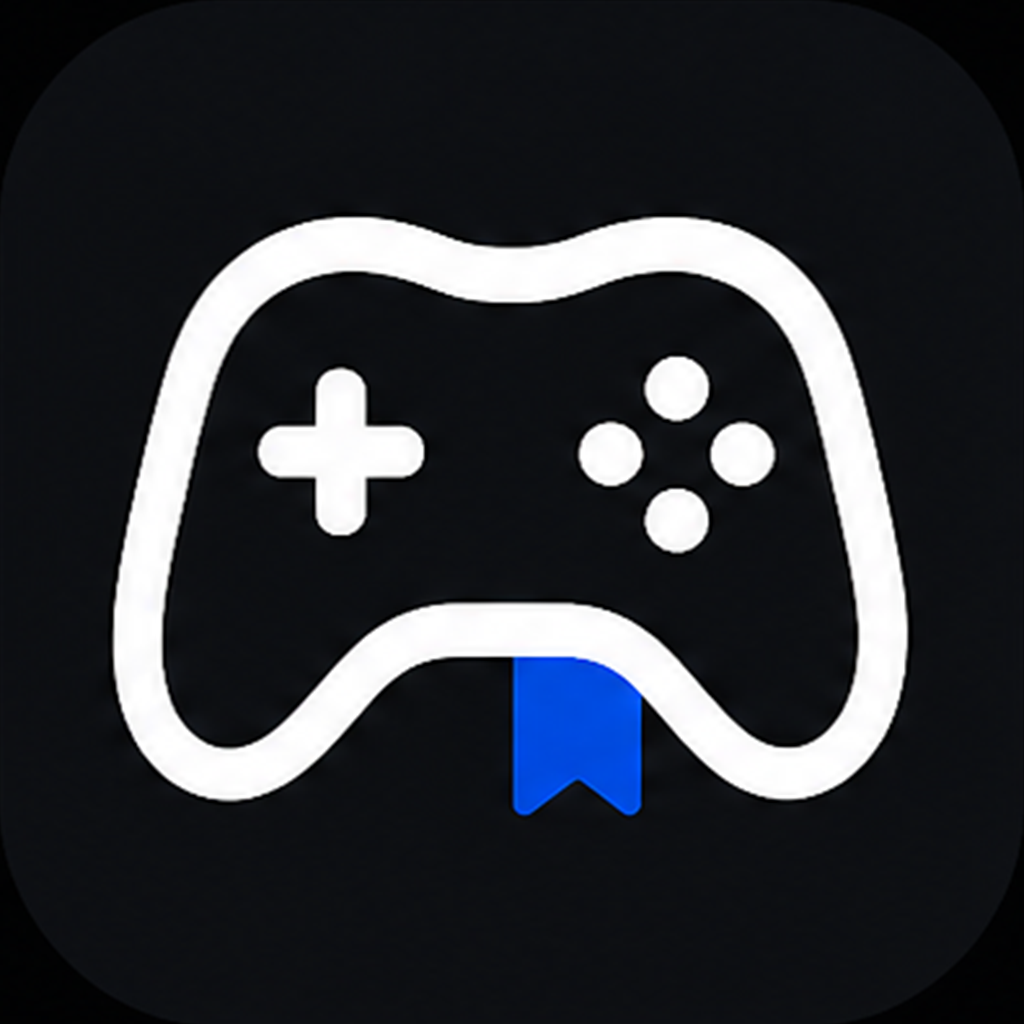
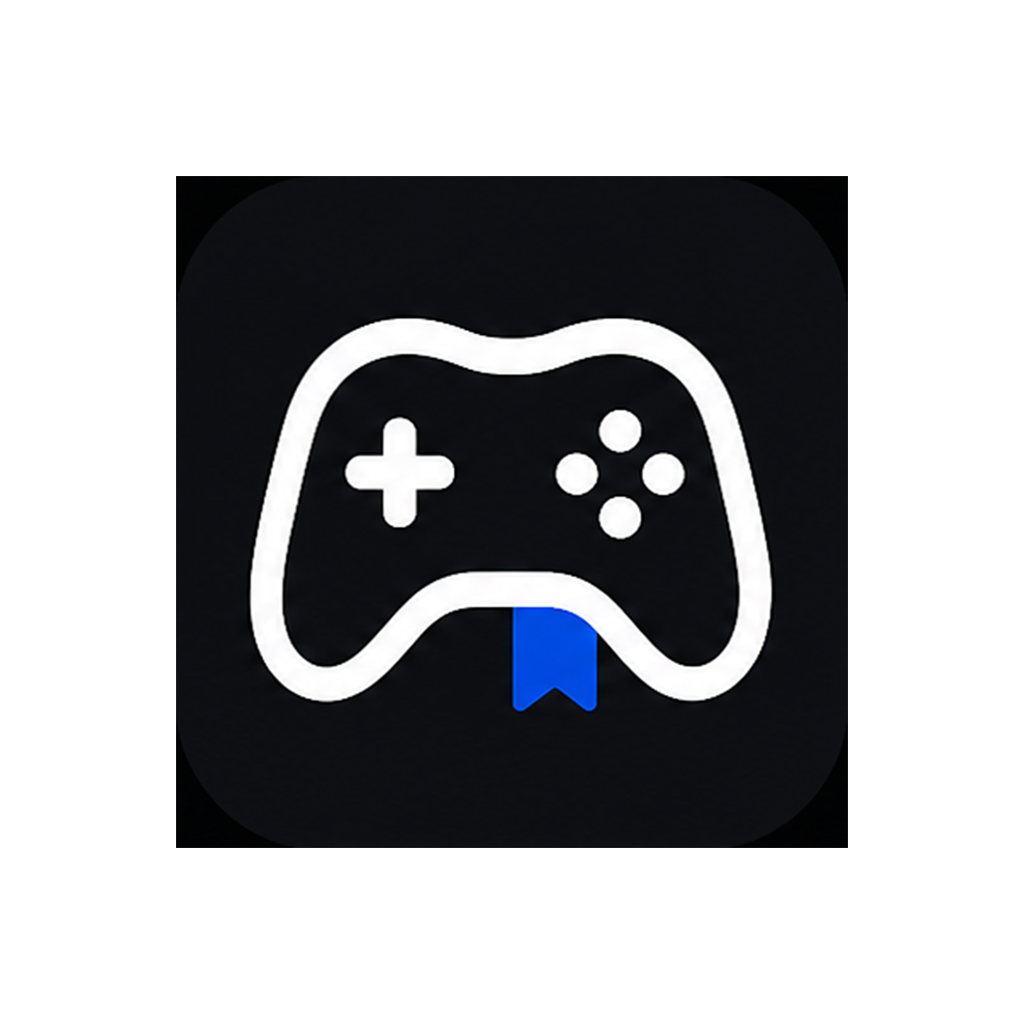
Many fixes

diff --git a/mobile/components/GameListItem.tsx b/mobile/components/GameListItem.tsx
@@ -1,9 +1,11 @@
 import { Pressable, View, StyleSheet } from 'react-native'
 import { Image } from 'expo-image'
 import { router } from 'expo-router'
+import { Ionicons } from '@expo/vector-icons'
 import { Text } from '@/components/ui/Text'
 import { AddToLibraryButton } from '@/components/AddToLibraryButton'
 import { Colors, Spacing, Radius, FontFamily } from '@/constants'
+import { isUpcomingRelease } from '@/lib/releaseDates'
 import type { RawgGame } from '@/types/rawg'
 
 function metacriticColor(score: number): string {
@@ -18,8 +20,8 @@ interface Props {
 
 export function GameListItem({ game }: Props) {
   const year = game.released != null ? game.released.split('-')[0] : null
+  const isUpcoming = isUpcomingRelease(game.released)
   const topGenre = (game.genres ?? [])[0]?.name ?? null
-  const meta = [year, topGenre].filter(Boolean).join(' - ')
 
   return (
     <Pressable
@@ -37,8 +39,23 @@ export function GameListItem({ game }: Props) {
         <Text variant="body" numberOfLines={2} style={styles.title}>
           {game.name}
         </Text>
-        {meta.length > 0 && (
-          <Text variant="caption">{meta}</Text>
+        {(year != null || topGenre != null) && (
+          <View style={styles.metaRow}>
+            {year != null && (
+              <View style={styles.releaseMeta}>
+                <Text variant="caption">{year}</Text>
+                {isUpcoming && (
+                  <Ionicons name="calendar-outline" size={12} color={Colors.success} />
+                )}
+              </View>
+            )}
+            {year != null && topGenre != null && (
+              <Text variant="caption" color={Colors.textMuted}>
+                -
+              </Text>
+            )}
+            {topGenre != null && <Text variant="caption">{topGenre}</Text>}
+          </View>
         )}
         {game.metacritic != null && (
           <View style={[styles.metaBadge, { borderColor: metacriticColor(game.metacritic) }]}>
@@ -78,6 +95,17 @@ const styles = StyleSheet.create({
     fontFamily: FontFamily.medium,
     fontSize: 14,
     lineHeight: 20,
+  },
+  metaRow: {
+    flexDirection: 'row',
+    alignItems: 'center',
+    flexWrap: 'wrap',
+    gap: Spacing.xs,
+  },
+  releaseMeta: {
+    flexDirection: 'row',
+    alignItems: 'center',
+    gap: 3,
   },
   metaBadge: {
     alignSelf: 'flex-start',

diff --git a/mobile/app/(tabs)/library.tsx b/mobile/app/(tabs)/library.tsx
@@ -6,7 +6,6 @@ import {
   PanResponder,
   Platform,
   Pressable,
-  RefreshControl,
   StyleSheet,
   View,
   type GestureResponderEvent,
@@ -18,7 +17,7 @@ import { Swipeable } from 'react-native-gesture-handler'
 import { Image } from 'expo-image'
 import { router, useLocalSearchParams } from 'expo-router'
 import { Ionicons } from '@expo/vector-icons'
-import { SafeAreaView } from 'react-native-safe-area-context'
+import { SafeAreaView, useSafeAreaInsets } from 'react-native-safe-area-context'
 import { Text } from '@/components/ui/Text'
 import { EmptyState } from '@/components/ui/EmptyState'
 import { SkeletonLoader } from '@/components/ui/SkeletonLoader'
@@ -47,7 +46,7 @@ type ViewMode = 'grid' | 'list'
 
 const FILTER_OPTIONS: { key: FilterStatus; label: string; compactLabel: string }[] = [
   { key: 'all', label: 'All', compactLabel: 'All' },
-  { key: 'want_to_play', label: 'Wanted', compactLabel: 'Want' },
+  { key: 'want_to_play', label: 'TBP', compactLabel: 'TBP' },
   { key: 'playing', label: 'Playing', compactLabel: 'Play' },
   { key: 'done', label: 'Done', compactLabel: 'Done' },
   { key: 'did_not_finish', label: 'DNF', compactLabel: 'DNF' },
@@ -526,13 +525,15 @@ function SortPicker({
   onDismiss: () => void
 }) {
   const isWeb = Platform.OS === 'web'
+  const insets = useSafeAreaInsets()
+  const sheetPaddingBottom = isWeb ? Spacing.md : Math.max(insets.bottom + Spacing.xl, Spacing.section)
 
   return (
     <Modal visible={visible} transparent animationType="fade" onRequestClose={onDismiss}>
       <View style={[spStyles.overlay, isWeb ? spStyles.overlayCenter : spStyles.overlayBottom]}>
         <Pressable style={StyleSheet.absoluteFill} onPress={onDismiss} />
         <View
-          style={isWeb ? spStyles.card : spStyles.sheet}
+          style={[isWeb ? spStyles.card : spStyles.sheet, { paddingBottom: sheetPaddingBottom }]}
           onStartShouldSetResponder={(_e) => true}
         >
           {!isWeb && <View style={spStyles.handle} />}
@@ -582,7 +583,6 @@ const spStyles = StyleSheet.create({
     backgroundColor: Colors.surface,
     borderTopLeftRadius: 20,
     borderTopRightRadius: 20,
-    paddingBottom: Spacing.xl,
     borderWidth: 1,
     borderBottomWidth: 0,
     borderColor: Colors.border,
@@ -733,15 +733,15 @@ function LibraryFilters({
 
 export default function LibraryScreen() {
   const { filter: filterParam } = useLocalSearchParams<{ filter?: string }>()
-  const [filter, setFilter] = useState<FilterStatus>('all')
-  const [sort, setSort] = useState<SortKey>('recent')
+  const [filter, setFilter] = useState<FilterStatus>('want_to_play')
+  const [sort, setSort] = useState<SortKey>('custom')
   const [viewMode, setViewMode] = useState<ViewMode>('grid')
   const [sortPickerVisible, setSortPickerVisible] = useState(false)
   const [statusPickerEntry, setStatusPickerEntry] = useState<LibraryEntry | null>(null)
   const [customOrderIds, setCustomOrderIds] = useState<string[]>([])
   const customOrderIdsRef = useRef<string[]>([])
 
-  const { data: entries, isLoading, refetch, isRefetching } = useLibraryEntries()
+  const { data: entries, isLoading } = useLibraryEntries()
   const { mutate: updateEntry } = useUpdateLibraryEntry()
   const { mutate: removeEntry } = useRemoveFromLibrary()
   const { mutate: updateCustomOrder } = useUpdateLibraryCustomOrder()
@@ -938,14 +938,6 @@ export default function LibraryScreen() {
         ]}
         columnWrapperStyle={activeViewMode === 'grid' ? styles.gridRow : undefined}
         ItemSeparatorComponent={activeViewMode === 'grid' ? () => <View style={styles.gridGap} /> : undefined}
-        refreshControl={
-          <RefreshControl
-            refreshing={isRefetching}
-            onRefresh={refetch}
-            tintColor={Colors.primary}
-            colors={[Colors.primary]}
-          />
-        }
         ListEmptyComponent={
           <View style={styles.emptyWrapper}>
             <EmptyState

diff --git a/mobile/lib/releaseDates.ts b/mobile/lib/releaseDates.ts
@@ -1,0 +1,20 @@
+export function isUpcomingRelease(released: string | null): boolean {
+  if (released == null) return true
+
+  const [yearPart, monthPart, dayPart] = released.split('-')
+  const year = Number(yearPart)
+  const month = Number(monthPart)
+  const day = Number(dayPart)
+  if (yearPart == null || monthPart == null || dayPart == null) return false
+  if (isNaN(year) || isNaN(month) || isNaN(day)) return false
+  if (month < 1 || month > 12 || day < 1 || day > 31) return false
+
+  const today = new Date()
+  const todayYear = today.getFullYear().toString().padStart(4, '0')
+  const todayMonth = (today.getMonth() + 1).toString().padStart(2, '0')
+  const todayDay = today.getDate().toString().padStart(2, '0')
+  const todayKey = `${todayYear}-${todayMonth}-${todayDay}`
+  const releaseKey = `${yearPart.padStart(4, '0')}-${monthPart.padStart(2, '0')}-${dayPart.padStart(2, '0')}`
+
+  return releaseKey > todayKey
+}

diff --git a/mobile/app/game/[id].tsx b/mobile/app/game/[id].tsx
@@ -34,6 +34,7 @@ import {
 import { useLibraryEntry, useUpdateLibraryEntry } from '@/hooks/useLibrary'
 
 import { Colors, FontFamily, Radius, Spacing } from '@/constants'
+import { isUpcomingRelease } from '@/lib/releaseDates'
 import type { LibraryEntry } from '@/types/database'
 import type { RawgGame, RawgGameDetail, RawgMovie } from '@/types/rawg'
 
@@ -102,21 +103,9 @@ function getReleaseDateInfo(released: string | null): ReleaseDateInfo | null {
   if (monthIndex < 0 || monthIndex >= MONTH_NAMES.length) return null
   if (isNaN(yearNumber) || isNaN(dayNumber)) return null
 
-  const releaseDate = new Date(yearNumber, monthIndex, dayNumber)
-  if (
-    releaseDate.getFullYear() !== yearNumber ||
-    releaseDate.getMonth() !== monthIndex ||
-    releaseDate.getDate() !== dayNumber
-  ) {
-    return null
-  }
-
-  const today = new Date()
-  today.setHours(0, 0, 0, 0)
-
   return {
     label: `${MONTH_NAMES[monthIndex]} ${dayNumber}, ${year}`,
-    isFuture: releaseDate.getTime() > today.getTime(),
+    isFuture: isUpcomingRelease(released),
   }
 }
 
@@ -698,7 +687,7 @@ export default function GameDetailScreen() {
   const entry = useLibraryEntry(safeGameId)
   const actionBarBottomPadding =
     Platform.OS === 'android'
-      ? Math.max(insets.bottom, Spacing.lg)
+      ? Math.max(insets.bottom, Spacing.xl)
       : Math.max(insets.bottom, Spacing.lg)
 
   if (isLoading) {

diff --git a/mobile/components/GameCard.tsx b/mobile/components/GameCard.tsx
@@ -1,9 +1,11 @@
 import { Pressable, View, StyleSheet, StyleProp, ViewStyle } from 'react-native'
 import { Image } from 'expo-image'
 import { router } from 'expo-router'
+import { Ionicons } from '@expo/vector-icons'
 import { Text } from '@/components/ui/Text'
 import { AddToLibraryButton } from '@/components/AddToLibraryButton'
 import { Colors, Spacing, Radius, FontFamily } from '@/constants'
+import { isUpcomingRelease } from '@/lib/releaseDates'
 import type { RawgGame } from '@/types/rawg'
 
 const PLATFORM_LABELS: Record<string, string> = {
@@ -34,6 +36,7 @@ interface Props {
 
 export function GameCard({ game, style }: Props) {
   const year = game.released != null ? game.released.split('-')[0] : null
+  const isUpcoming = isUpcomingRelease(game.released)
   const platforms = (game.platforms ?? [])
     .map(p => PLATFORM_LABELS[p.platform.slug])
     .filter((p): p is string => p !== undefined)
@@ -65,7 +68,14 @@ export function GameCard({ game, style }: Props) {
           {game.name}
         </Text>
         <View style={styles.meta}>
-          {year != null && <Text variant="caption">{year}</Text>}
+          {year != null && (
+            <View style={styles.releaseMeta}>
+              <Text variant="caption">{year}</Text>
+              {isUpcoming && (
+                <Ionicons name="calendar-outline" size={12} color={Colors.success} />
+              )}
+            </View>
+          )}
           {platforms.length > 0 && (
             <View style={styles.platforms}>
               {platforms.map(p => (
@@ -126,6 +136,11 @@ const styles = StyleSheet.create({
     alignItems: 'center',
     flexWrap: 'wrap',
     gap: Spacing.xs,
+  },
+  releaseMeta: {
+    flexDirection: 'row',
+    alignItems: 'center',
+    gap: 3,
   },
   addButtonContainer: {
     marginTop: 'auto',

diff --git a/mobile/app/(auth)/login.tsx b/mobile/app/(auth)/login.tsx
@@ -1,11 +1,13 @@
 import { useState } from 'react'
 import { View, StyleSheet, Pressable, ActivityIndicator, Alert } from 'react-native'
+import { Image } from 'expo-image'
 import { SafeAreaView } from 'react-native-safe-area-context'
 import { FontAwesome } from '@expo/vector-icons'
 import { Text } from '@/components/ui/Text'
 import { RawgFooter } from '@/components/RawgFooter'
 import { signInWithGoogle } from '@/lib/auth'
-import { Colors, Spacing, FontSize } from '@/constants'
+import { Colors, Spacing, FontSize, Radius } from '@/constants'
+import appIcon from '../../assets/images/icon.png'
 
 export default function LoginScreen() {
   const [isLoading, setIsLoading] = useState(false)
@@ -25,6 +27,7 @@ export default function LoginScreen() {
     <SafeAreaView style={styles.container} edges={['top', 'bottom']}>
       <View style={styles.content}>
         <View style={styles.hero}>
+          <Image source={appIcon} style={styles.appIcon} contentFit="cover" />
           <Text variant="display" style={styles.logo}>Goodgame</Text>
           <Text variant="body" color={Colors.textSecondary} style={styles.tagline}>
             Your gaming journey, tracked.
@@ -68,6 +71,12 @@ const styles = StyleSheet.create({
   hero: {
     alignItems: 'center',
     gap: Spacing.sm,
+  },
+  appIcon: {
+    width: 96,
+    height: 96,
+    borderRadius: Radius.xl,
+    marginBottom: Spacing.sm,
   },
   logo: {
     color: Colors.primary,

diff --git a/mobile/types/assets.d.ts b/mobile/types/assets.d.ts
@@ -1,0 +1,4 @@
+declare module '*.png' {
+  const source: import('react-native').ImageSourcePropType
+  export default source
+}